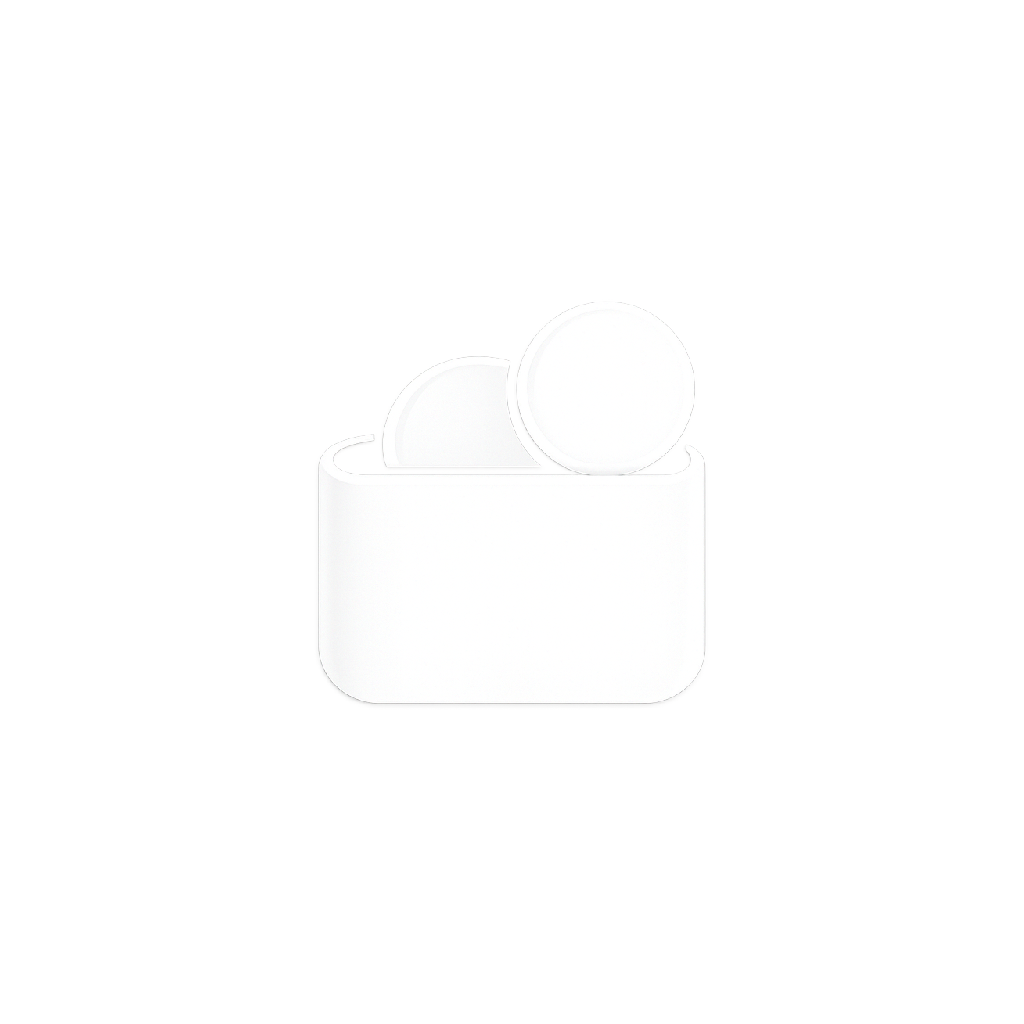
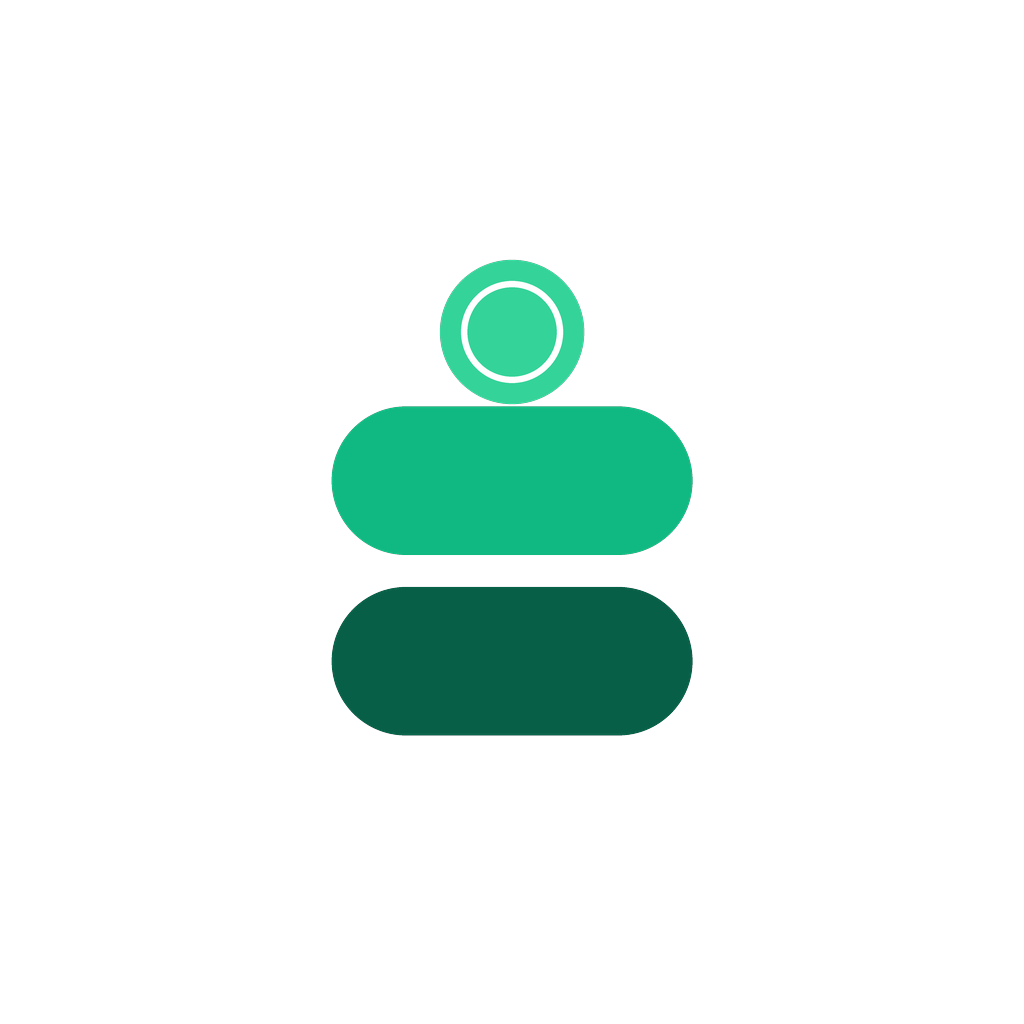
feat: automate app asset generation and update branding colors and splash screen configuration

Changed region(s): [[0.3125, 0.25, 0.6875, 0.7188]]

diff --git a/scripts/generate_final_assets.py b/scripts/generate_final_assets.py
@@ -1,0 +1,141 @@
+import os
+from PIL import Image, ImageDraw, ImageChops
+
+PROJECT_DIR = "/Users/ahmed/Documents/Projects/ReactNative/luno-react-native"
+ASSETS_DIR = os.path.join(PROJECT_DIR, "assets", "images")
+
+def create_logo_layer(is_monochrome=False):
+    # Base logo image (4096 x 4096 transparent)
+    img = Image.new("RGBA", (4096, 4096), (0, 0, 0, 0))
+    draw = ImageDraw.Draw(img)
+    
+    # Mask image for transparency cutout (ring in monochrome, background elsewhere)
+    mask = Image.new("L", (4096, 4096), 255)
+    mask_draw = ImageDraw.Draw(mask)
+    
+    # Colors
+    if is_monochrome:
+        top_color = (0, 0, 0, 255)
+        bottom_color = (0, 0, 0, 255)
+        coin_color = (0, 0, 0, 255)
+    else:
+        top_color = (16, 185, 129, 255)  # Vibrant Emerald (#10B981)
+        bottom_color = (6, 95, 70, 255)   # Deep Emerald (#065F46)
+        coin_color = (52, 211, 153, 255)  # Mint (#34D399)
+        
+    # Draw capsules and coin on logo layer
+    # Top horizontal bank capsule
+    draw.rounded_rectangle(
+        (2048 - 850, 1550, 2048 + 850, 2250),
+        radius=350,
+        fill=top_color
+    )
+    
+    # Bottom horizontal bank capsule
+    draw.rounded_rectangle(
+        (2048 - 850, 2400, 2048 + 850, 3100),
+        radius=350,
+        fill=bottom_color
+    )
+    
+    # Descending Coin (Mint)
+    cx, cy = 2048, 1200
+    r = 340
+    draw.ellipse(
+        (cx - r, cy - r, cx + r, cy + r),
+        fill=coin_color
+    )
+    
+    if is_monochrome:
+        # Cutout ring on monochrome (value 0 is transparent)
+        # Ring center at cx, cy, radius 240, width 30 (inner 225, outer 255)
+        mask_draw.ellipse(
+            (cx - 255, cy - 255, cx + 255, cy + 255),
+            fill=0
+        )
+        mask_draw.ellipse(
+            (cx - 225, cy - 225, cx + 225, cy + 225),
+            fill=255
+        )
+    else:
+        # Draw standard white ring line
+        draw.ellipse(
+            (cx - 240, cy - 240, cx + 240, cy + 240),
+            outline=(255, 255, 255, 255),
+            width=30
+        )
+        
+    # Apply mask to alpha channel
+    r_ch, g_ch, b_ch, a_ch = img.split()
+    final_alpha = ImageChops.multiply(a_ch, mask)
+    img.putalpha(final_alpha)
+    
+    return img
+
+def main():
+    print("Generating logo source layers...")
+    logo_color = create_logo_layer(is_monochrome=False)
+    logo_mono = create_logo_layer(is_monochrome=True)
+    
+    # Ensure directories exist
+    os.makedirs(ASSETS_DIR, exist_ok=True)
+    os.makedirs(os.path.join(ASSETS_DIR, "adaptive-icon"), exist_ok=True)
+    
+    # 1. assets/images/icon.png (1024x1024, Solid White Background)
+    print("Generating icon.png...")
+    icon_img = Image.new("RGBA", (1024, 1024), (255, 255, 255, 255))
+    # Resize color logo to 1024x1024 (standard size centered)
+    resized_logo = logo_color.resize((1024, 1024), Image.Resampling.LANCZOS)
+    icon_img.alpha_composite(resized_logo)
+    icon_img.save(os.path.join(ASSETS_DIR, "icon.png"), "PNG")
+    
+    # 2. assets/images/adaptive-icon/foreground.png (1024x1024, Transparent, Safe zone scaled)
+    # The logo fits beautifully inside the 675px safe zone circle at standard scaling,
+    # but let's downscale it slightly to 90% of full size (~922px canvas size inside 1024x1024)
+    # to give extra breathing room for Android launchers.
+    print("Generating adaptive-icon/foreground.png...")
+    foreground = Image.new("RGBA", (1024, 1024), (0, 0, 0, 0))
+    # Scale logo slightly to 85% to guarantee it fits safely in the center circle
+    scaled_logo_w = int(1024 * 0.85)
+    scaled_logo_h = int(1024 * 0.85)
+    resized_logo_adaptive = logo_color.resize((scaled_logo_w, scaled_logo_h), Image.Resampling.LANCZOS)
+    # Paste centered
+    offset_x = (1024 - scaled_logo_w) // 2
+    offset_y = (1024 - scaled_logo_h) // 2
+    foreground.paste(resized_logo_adaptive, (offset_x, offset_y), resized_logo_adaptive)
+    foreground.save(os.path.join(ASSETS_DIR, "adaptive-icon", "foreground.png"), "PNG")
+    
+    # 3. assets/images/adaptive-icon/background.png (1024x1024, Solid White)
+    print("Generating adaptive-icon/background.png...")
+    background = Image.new("RGBA", (1024, 1024), (255, 255, 255, 255))
+    background.save(os.path.join(ASSETS_DIR, "adaptive-icon", "background.png"), "PNG")
+    
+    # 4. assets/images/android-icon-monochrome.png (1024x1024, Transparent, Monochrome Black)
+    print("Generating android-icon-monochrome.png...")
+    monochrome = Image.new("RGBA", (1024, 1024), (0, 0, 0, 0))
+    resized_logo_mono = logo_mono.resize((scaled_logo_w, scaled_logo_h), Image.Resampling.LANCZOS)
+    monochrome.paste(resized_logo_mono, (offset_x, offset_y), resized_logo_mono)
+    monochrome.save(os.path.join(ASSETS_DIR, "android-icon-monochrome.png"), "PNG")
+    
+    # 5. assets/images/splash.png (2048x2048, Transparent Background, Centered logo scaled)
+    # Splash logo should be centered and relatively small (~18% of screen width)
+    print("Generating splash.png...")
+    splash = Image.new("RGBA", (2048, 2048), (0, 0, 0, 0))
+    splash_logo_size = 420  # 420x420 centered on 2048x2048
+    resized_splash_logo = logo_color.resize((splash_logo_size, splash_logo_size), Image.Resampling.LANCZOS)
+    offset_splash_x = (2048 - splash_logo_size) // 2
+    offset_splash_y = (2048 - splash_logo_size) // 2
+    splash.paste(resized_splash_logo, (offset_splash_x, offset_splash_y), resized_splash_logo)
+    splash.save(os.path.join(ASSETS_DIR, "splash.png"), "PNG")
+    
+    # 6. assets/images/favicon.png (48x48, Transparent)
+    print("Generating favicon.png...")
+    favicon = Image.new("RGBA", (48, 48), (0, 0, 0, 0))
+    resized_fav = logo_color.resize((48, 48), Image.Resampling.LANCZOS)
+    favicon.alpha_composite(resized_fav)
+    favicon.save(os.path.join(ASSETS_DIR, "favicon.png"), "PNG")
+    
+    print("All assets generated successfully!")
+
+if __name__ == "__main__":
+    main()
